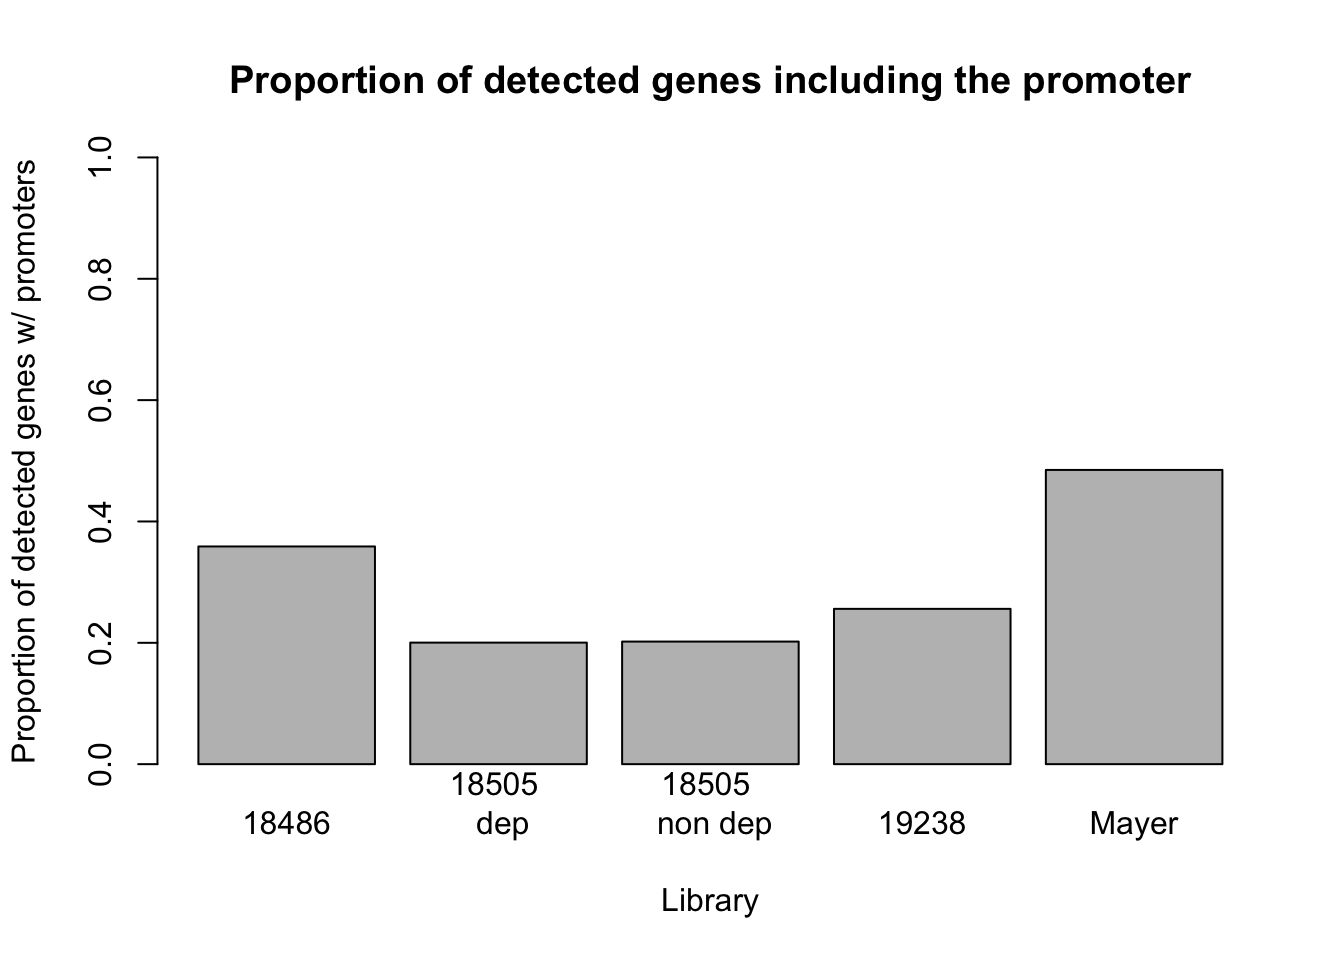
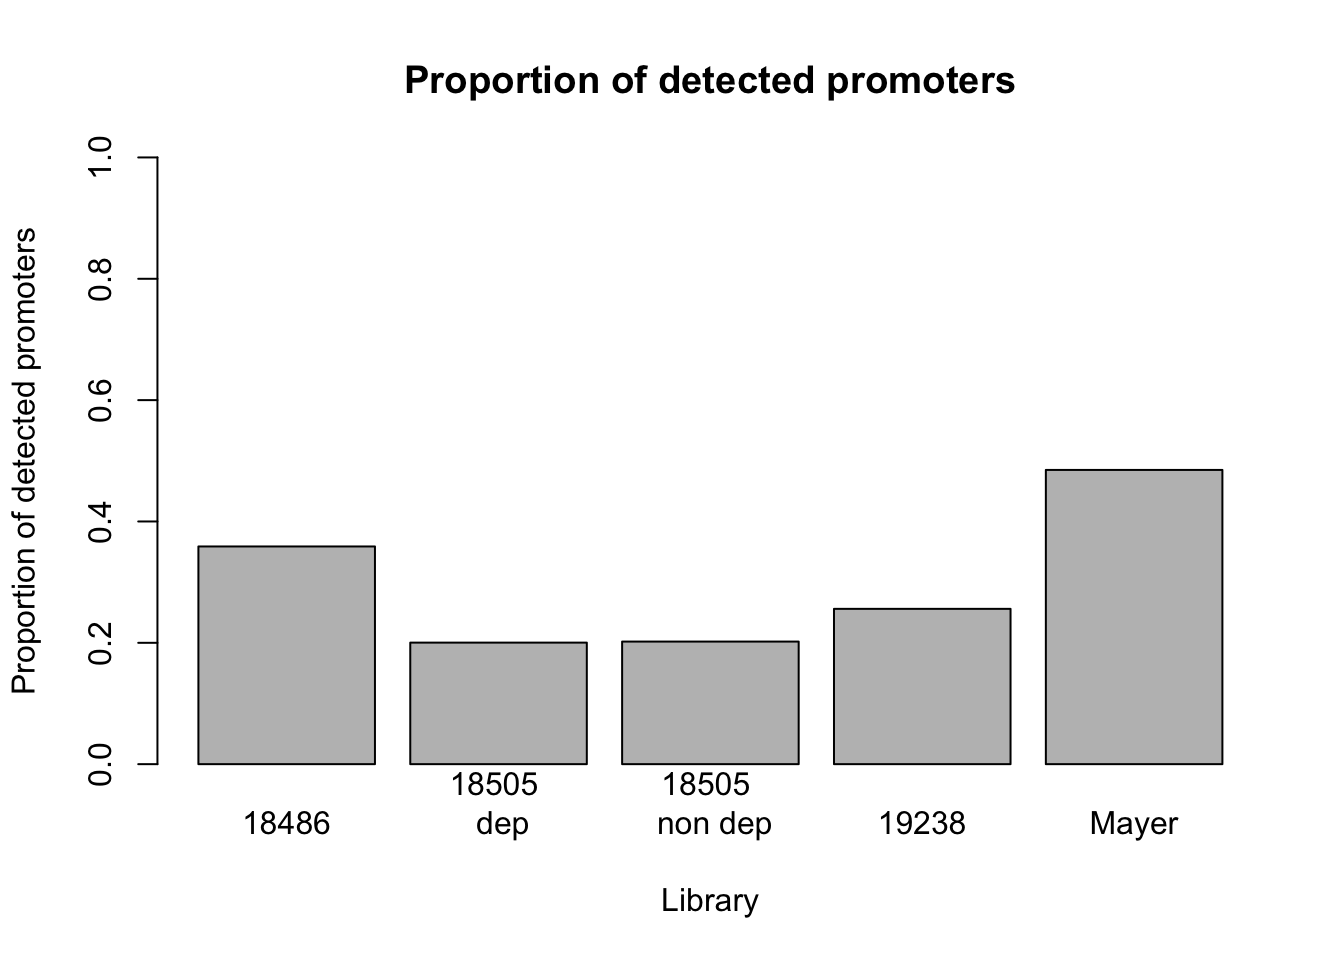
Build site.

Changed region(s): [[0.1562, 0.0625, 0.9062, 0.125], [0.0, 0.1562, 0.0312, 0.8125]]

diff --git a/docs/reads_in_genes.html b/docs/reads_in_genes.html
@@ -313,10 +313,10 @@ div.tocify {
 shared across the workflowr files. -->
 <!-- Update knitr chunk options -->
 <!-- Insert the date the file was last updated -->
-<p><strong>Last updated:</strong> 2017-11-28</p>
+<p><strong>Last updated:</strong> 2017-11-30</p>
 <!-- Insert the code version (Git commit SHA1) if Git repository exists and R
  package git2r is installed -->
-<p><strong>Code version:</strong> ecbc5b9</p>
+<p><strong>Code version:</strong> eaac018</p>
 <div id="initial-exploration-for-data-format" class="section level2">
 <h2>Initial exploration for data format</h2>
 <p>The goal of this analysis is too look at read coverage in genes/exons/and in genes + promoter regions for my Net-seq data and the Mayer data. This will help me understand if the problem with this data is coverage.</p>
@@ -661,7 +661,7 @@ prop_prom_non0_mayer= sum(prom_coverage_all$c_mayer !=0) /length(prom_coverage_a
 
 prop_prom_non0_all= c(prop_prom_non0_18486,prop_prom_non0_18508dep, prop_prom_non0_18508_nondep, prop_prom_non0_19238, prop_prom_non0_mayer)
 
-barplot(prop_prom_non0_all, names=c(&quot;18486&quot;, &quot;18505 \n dep&quot;, &quot;18505 \n non dep&quot;, &quot;19238&quot;, &quot;Mayer&quot;), ylab= &quot;Proportion of detected genes w/ promoters&quot;, ylim=0:1, xlab= &quot;Library&quot;, main = &quot;Proportion of detected genes including the promoter&quot;)</code></pre>
+barplot(prop_prom_non0_all, names=c(&quot;18486&quot;, &quot;18505 \n dep&quot;, &quot;18505 \n non dep&quot;, &quot;19238&quot;, &quot;Mayer&quot;), ylab= &quot;Proportion of detected promoters&quot;, ylim=0:1, xlab= &quot;Library&quot;, main = &quot;Proportion of detected promoters&quot;)</code></pre>
 <p><img src="figure/reads_in_genes.Rmd/unnamed-chunk-30-1.png" width="672" style="display: block; margin: auto;" /></p>
 </div>
 </div>
@@ -833,6 +833,38 @@ prop_dedup_gene_non0_mayer= sum(dedup_gene_coverage_all$de_mayer != 0) /length(d
 
 barplot( c(prop_gene_non0_18486,prop_gene_non0_18508dep, prop_gene_non0_18508_nondep, prop_gene_non0_19238, prop_gene_non0_mayer) , names=c(&quot;18486&quot;, &quot;18505 \n dep&quot;, &quot;18505 \n non dep&quot;, &quot;19238&quot;, &quot;Mayer&quot;), ylab= &quot;Proportion of detected genes&quot;, ylim=0:1, xlab= &quot;Library&quot;, main = &quot;Genes detected in deduplicated libraries&quot;)</code></pre>
 <p><img src="figure/reads_in_genes.Rmd/unnamed-chunk-41-1.png" width="672" style="display: block; margin: auto;" /></p>
+</div>
+<div id="bp-windows" class="section level3">
+<h3>200 bp windows:</h3>
+<p>Split genome into 200bp windows and run the coverage command:</p>
+<p>/project2/gilad/briana/Net-seq/genome_bed/hg19_200bp_window.bed</p>
+<p>/project2/gilad/briana/Net-seq/ref_genes/windows_200</p>
+<p>make window_200_cov.sh</p>
+<pre class="bash"><code>#!/bin/bash
+
+#SBATCH --job-name=window_200_cov
+#SBATCH --time=8:00:00
+#SBATCH --partition=broadwl
+#SBATCH --mem=50G
+#SBATCH --tasks-per-node=4
+#SBATCH --mail-type=END
+
+
+
+bedtools coverage -counts -a /project2/gilad/briana/Net-seq/genome_bed/hg19_200bp_window.bed 
+-b /project2/gilad/briana/Net-seq/Net-seq1/data/bed_sort/net1_18486_dep_chr_sort.bed  &gt; /project2/gilad/briana/Net-seq/ref_genes/windows_200/window_200_cov_18486.txt
+
+
+bedtools coverage -counts -a /project2/gilad/briana/Net-seq/genome_bed/hg19_200bp_window.bed   -b /project2/gilad/briana/Net-seq/Net-seq1/data/bed_sort/net1_18508_dep_chr_sort.bed  &gt; /project2/gilad/briana/Net-seq/ref_genes/windows_200/window_200_cov_18508_dep.txt
+
+bedtools coverage -counts -a /project2/gilad/briana/Net-seq/genome_bed/hg19_200bp_window.bed   -b /project2/gilad/briana/Net-seq/Net-seq1/data/bed_sort/net1_18508_nondep_chr_sort.bed   &gt; /project2/gilad/briana/Net-seq/ref_genes/windows_200/window_200_cov_18508_nondep.txt
+
+bedtools coverage -counts -a /project2/gilad/briana/Net-seq/genome_bed/hg19_200bp_window.bed   -b /project2/gilad/briana/Net-seq/Net-seq1/data/bed_sort/net1_19238_dep_chr_sort.bed   &gt; /project2/gilad/briana/Net-seq/ref_genes/windows_200/wondow_200_cov_19238.txt
+
+bedtools coverage -counts -a /project2/gilad/briana/Net-seq/genome_bed/hg19_200bp_window.bed   -b /project2/gilad/briana/Net-seq/data/bed_sort/mayer_SRR1575922_chr_sort.bed   &gt; /project2/gilad/briana/Net-seq/ref_genes/windows_200/window_200_cov_mayer.txt 
+
+
+bedtools coverage -counts -a /project2/gilad/briana/Net-seq/genome_bed/hg19_200bp_window.bed   -b /project2/gilad/briana/Net-seq/Net-seq1/data/bed_/merged_Net1.chr.bed   &gt; /project2/gilad/briana/Net-seq/ref_genes/windows_200/window_200_cov_merged.txt</code></pre>
 </div>
 <div id="exon-coverage" class="section level3">
 <h3>Exon coverage</h3>
